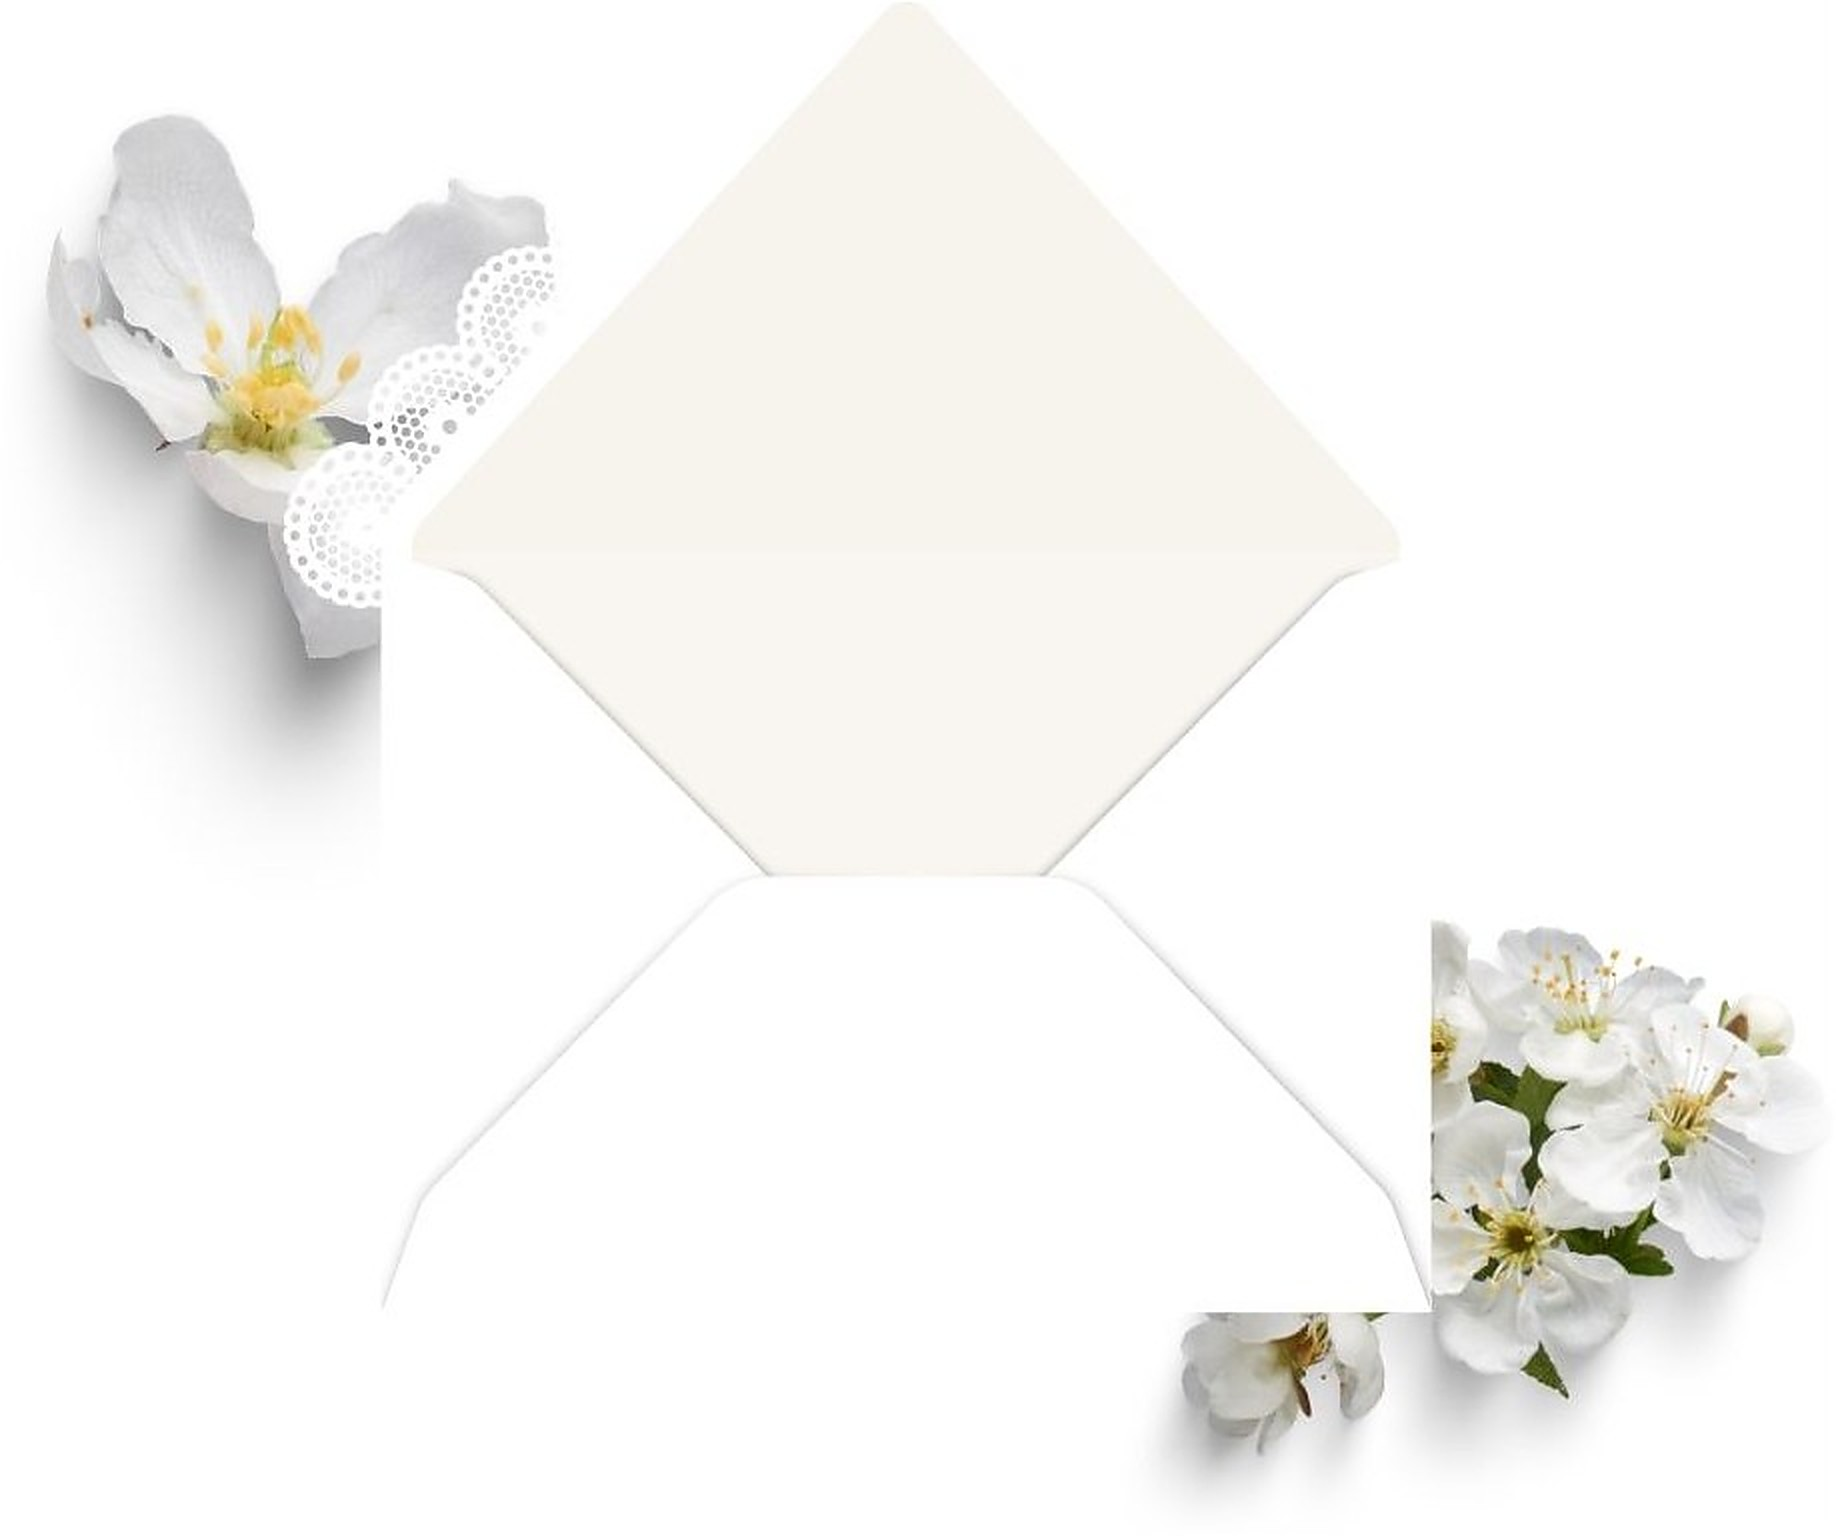
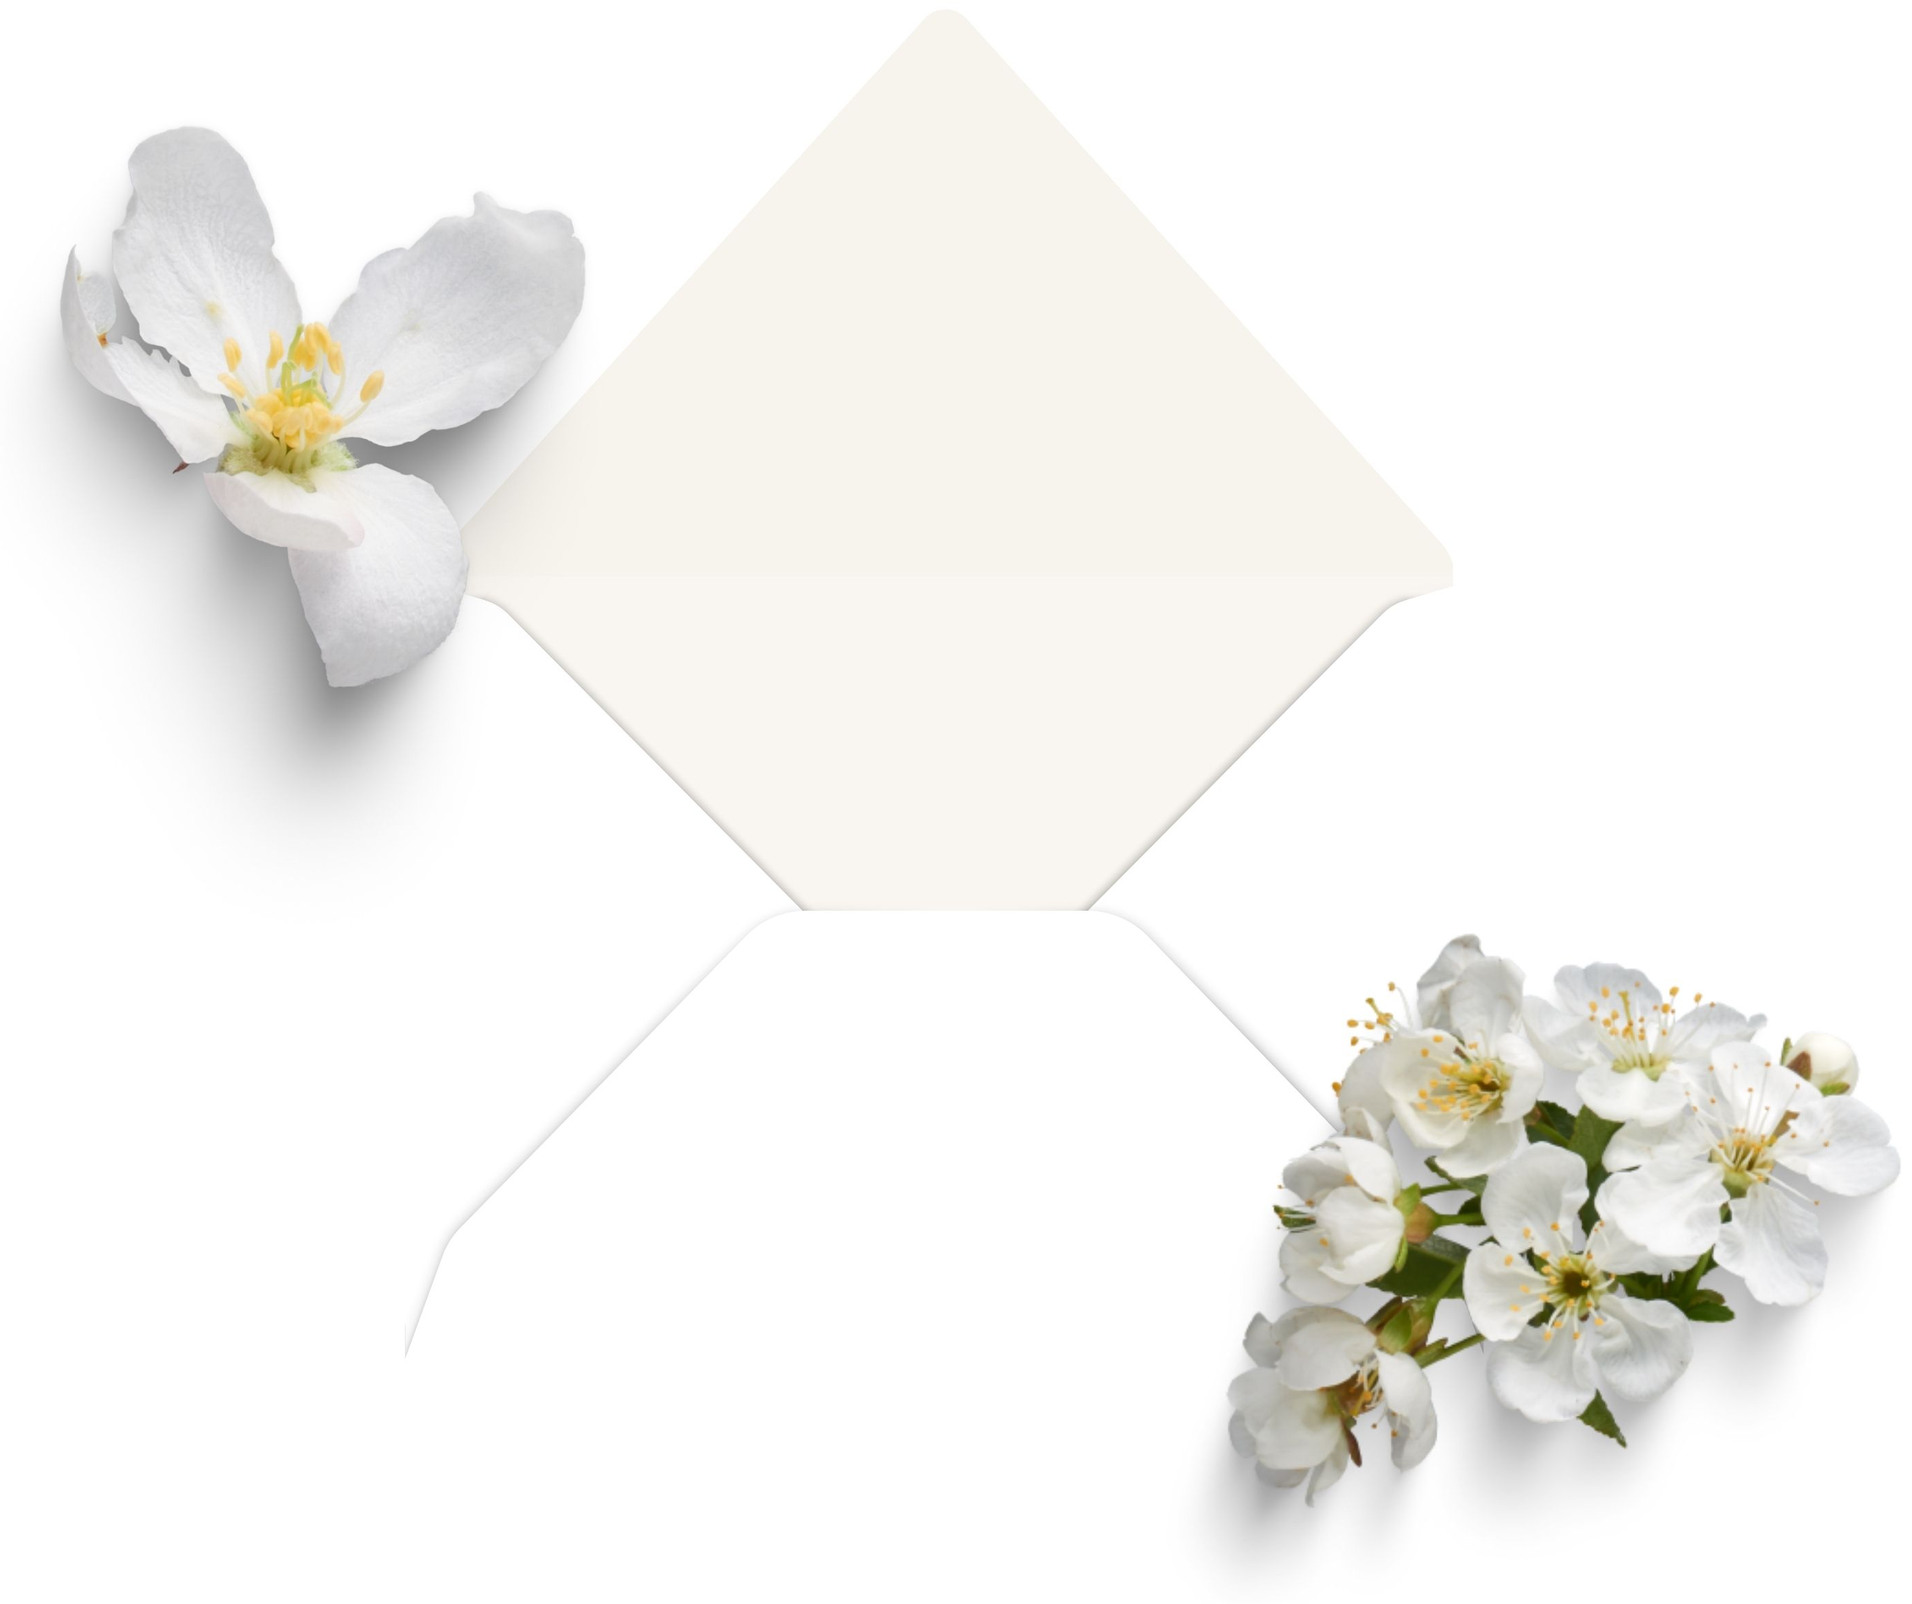
Add files via upload

diff --git a/assets/css/style.css b/assets/css/style.css
@@ -182,17 +182,22 @@ html.is-arriving{ overflow:hidden; }
 
 #overture.is-open .env-sheet{ opacity:0; transition:opacity .22s ease .04s; }
 
-.env-wide, .env-pocket{ left:0; top:0; width:100%; opacity:0; }
+/* the picture carries a margin around the envelope so that the sprays keep
+   their outermost petals, so it is laid a little wider than the envelope
+   itself and pulled back up and to the left by that same margin */
+.env-wide, .env-pocket{
+  left:-3.05011%; top:-0.78125%; width:104.13943%; opacity:0;
+}
 
 .env-wide{
   z-index:1;
-  clip-path:polygon(0 0, 100% 0, 100% 38.5%, 75.2% 38.5%, 49.7% 56.8%,
-                    24.6% 38.5%, 0 38.5%);
+  clip-path:polygon(0 0, 100% 0, 100% 37.616%, 75.14% 37.616%, 50.653% 55.14%,
+                    26.551% 37.616%, 0 37.616%);
 }
 .env-pocket{
   z-index:3;
-  clip-path:polygon(0% 38.5%, 24.6% 38.5%, 49.7% 56.8%, 75.2% 38.5%,
-                    100% 38.5%, 100% 100%, 0% 100%);
+  clip-path:polygon(0 37.616%, 26.551% 37.616%, 50.653% 55.14%, 75.14% 37.616%,
+                    100% 37.616%, 100% 100%, 0 100%);
 }
 
 #overture.is-open .env-pocket{ opacity:1; transition:opacity .26s ease .24s; }

diff --git a/index.html b/index.html
@@ -42,7 +42,7 @@
 
 <link rel="preload" href="assets/fonts/lato-400.woff2" as="font" type="font/woff2" crossorigin>
 <link rel="stylesheet" href="assets/css/reset.css?v=25">
-<link rel="stylesheet" href="assets/css/style.css?v=101">
+<link rel="stylesheet" href="assets/css/style.css?v=103">
 <script>
 (function(){
   var asked = /(^|[?&])open=1(&|$)/.test(location.search);
@@ -81,8 +81,8 @@
         </div>
       </div>
 
-      <img class="env-wide" src="assets/img/env-wide.jpg" alt="" width="1836" height="1536">
-      <img class="env-pocket" src="assets/img/env-wide.jpg" alt="" width="1836" height="1536">
+      <img class="env-wide" src="assets/img/env-wide.jpg?v=2" alt="" width="1912" height="1604">
+      <img class="env-pocket" src="assets/img/env-wide.jpg?v=2" alt="" width="1912" height="1604">
       <div class="env-front">
         <div class="env-flap" aria-hidden="true">
           <div class="env-leaf">
@@ -725,6 +725,6 @@
   </svg>
 </button>
 
-<script src="assets/js/main.js?v=68"></script>
+<script src="assets/js/main.js?v=69"></script>
 </body>
 </html>

diff --git a/photos.html b/photos.html
@@ -27,7 +27,7 @@
 
 <link rel="preload" href="assets/fonts/lato-400.woff2" as="font" type="font/woff2" crossorigin>
 <link rel="stylesheet" href="assets/css/reset.css?v=25">
-<link rel="stylesheet" href="assets/css/style.css?v=101">
+<link rel="stylesheet" href="assets/css/style.css?v=103">
 </head>
 <body class="is-wall">
 
